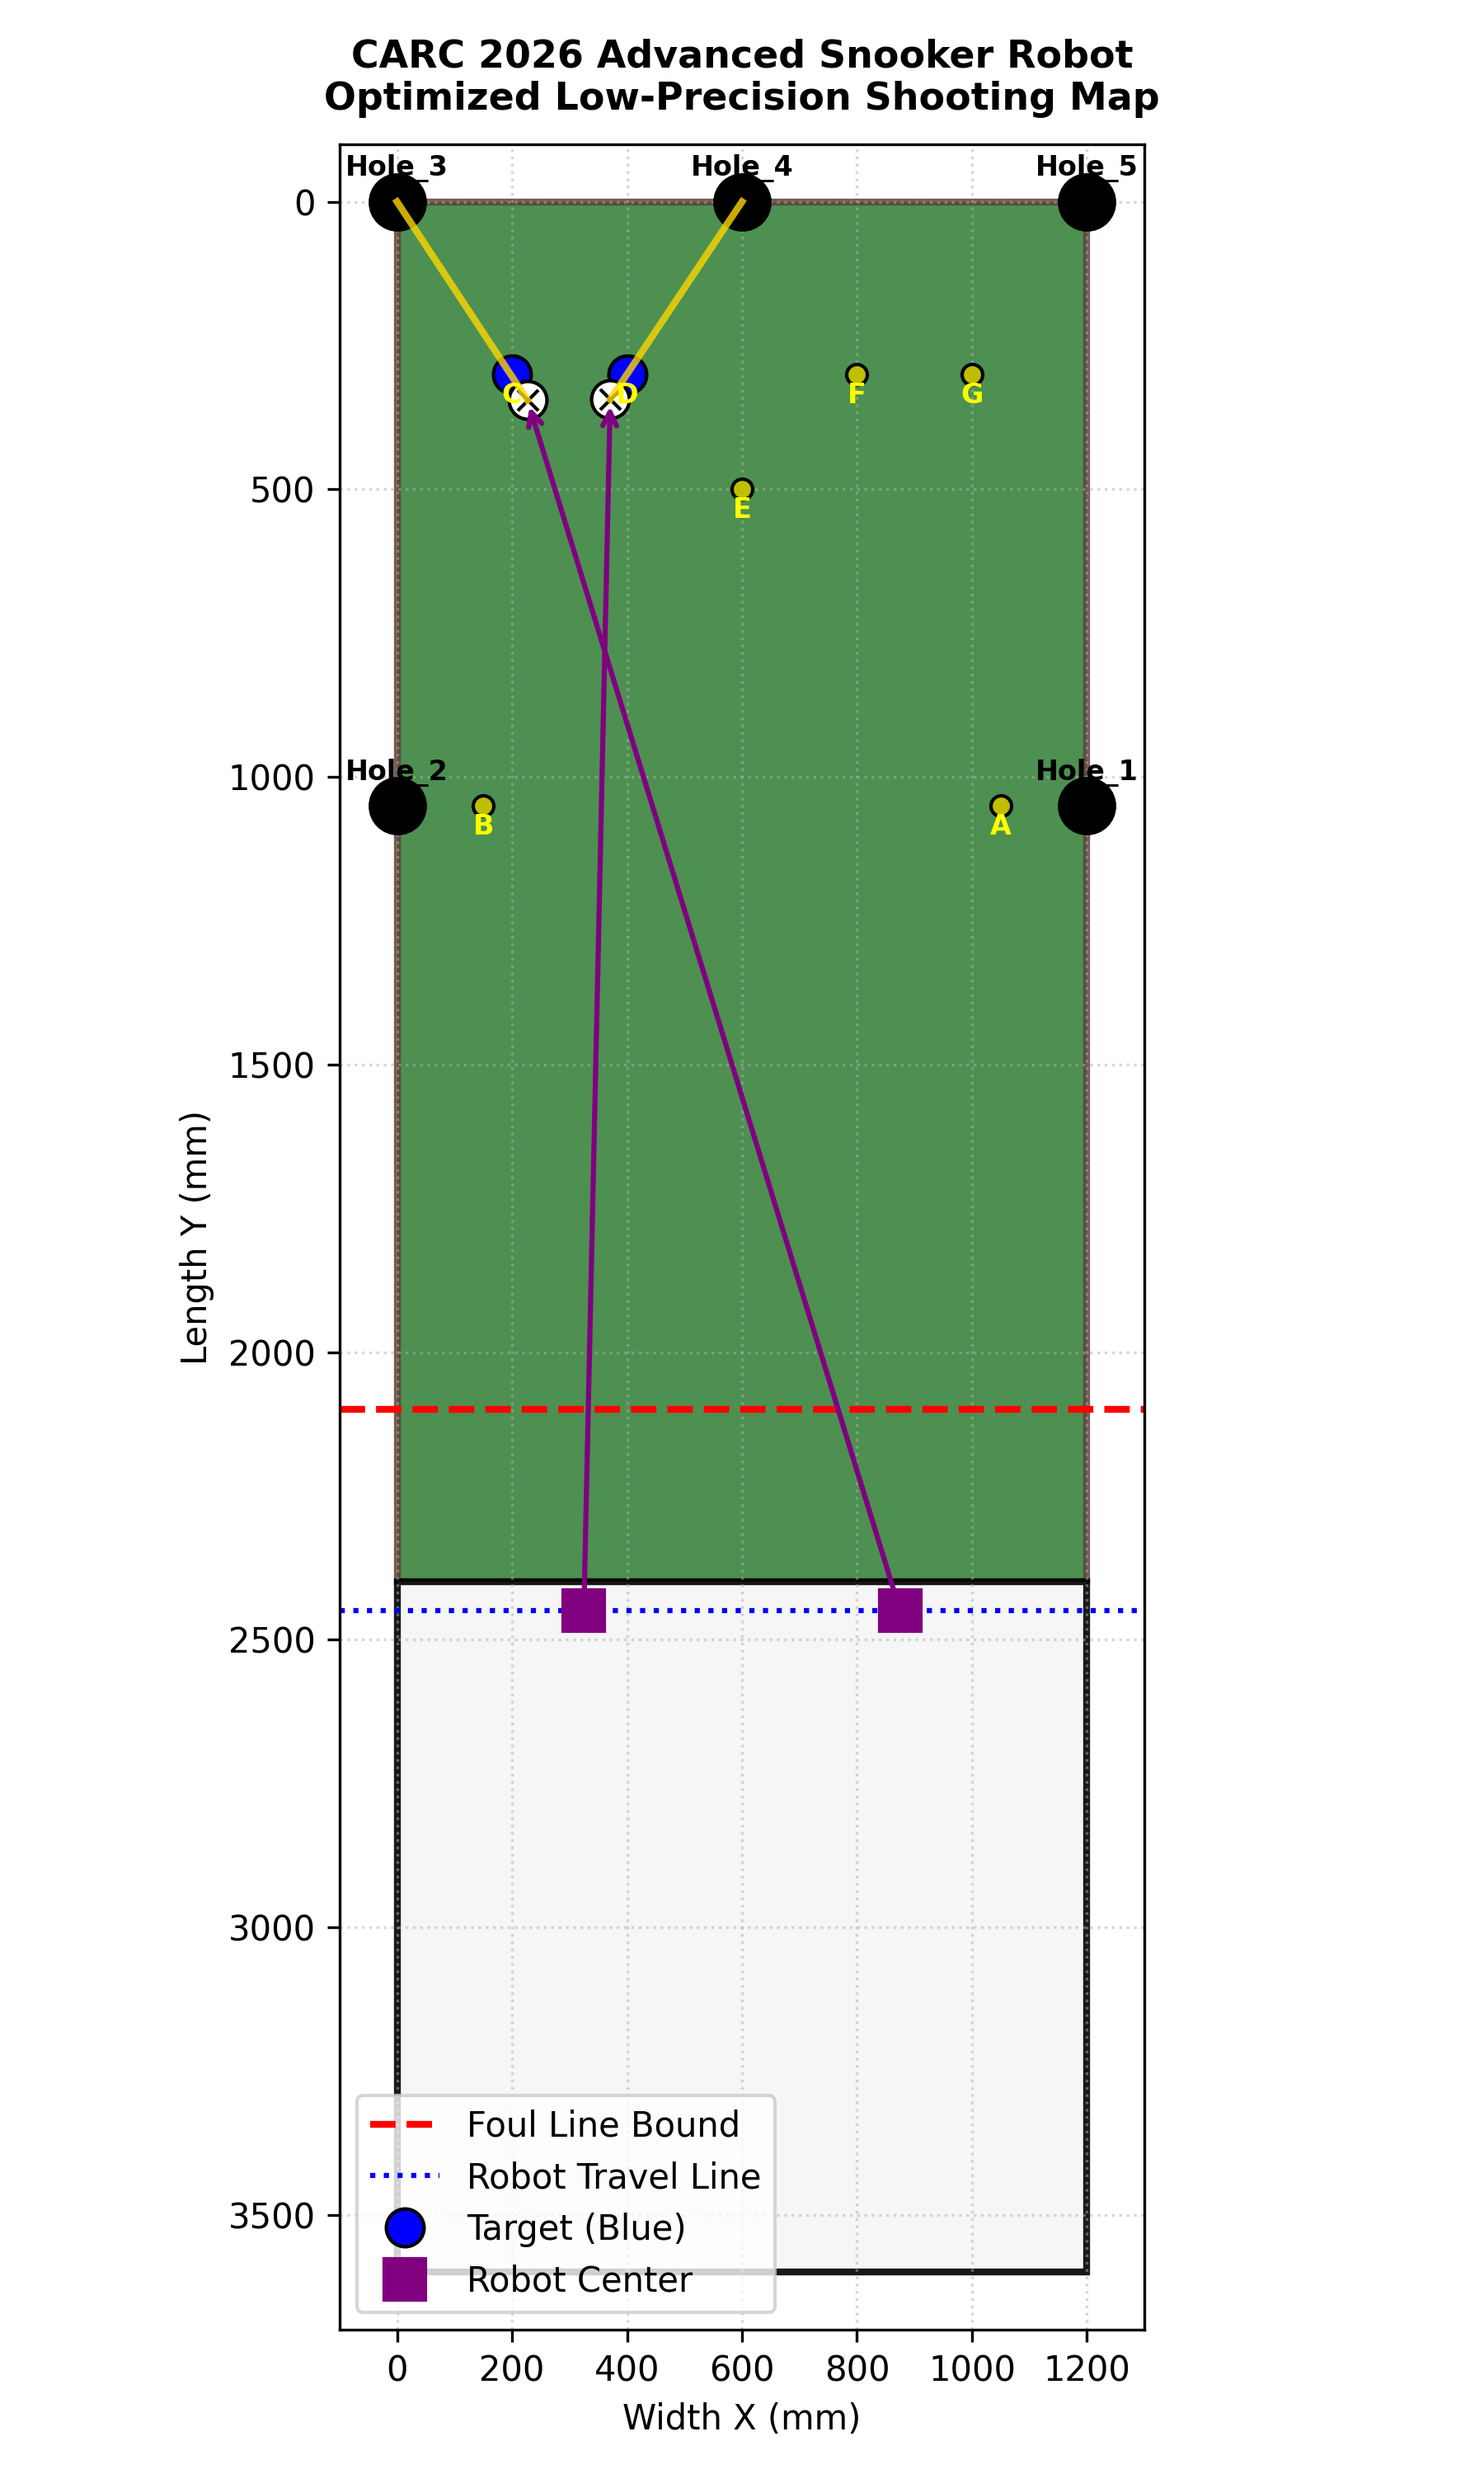
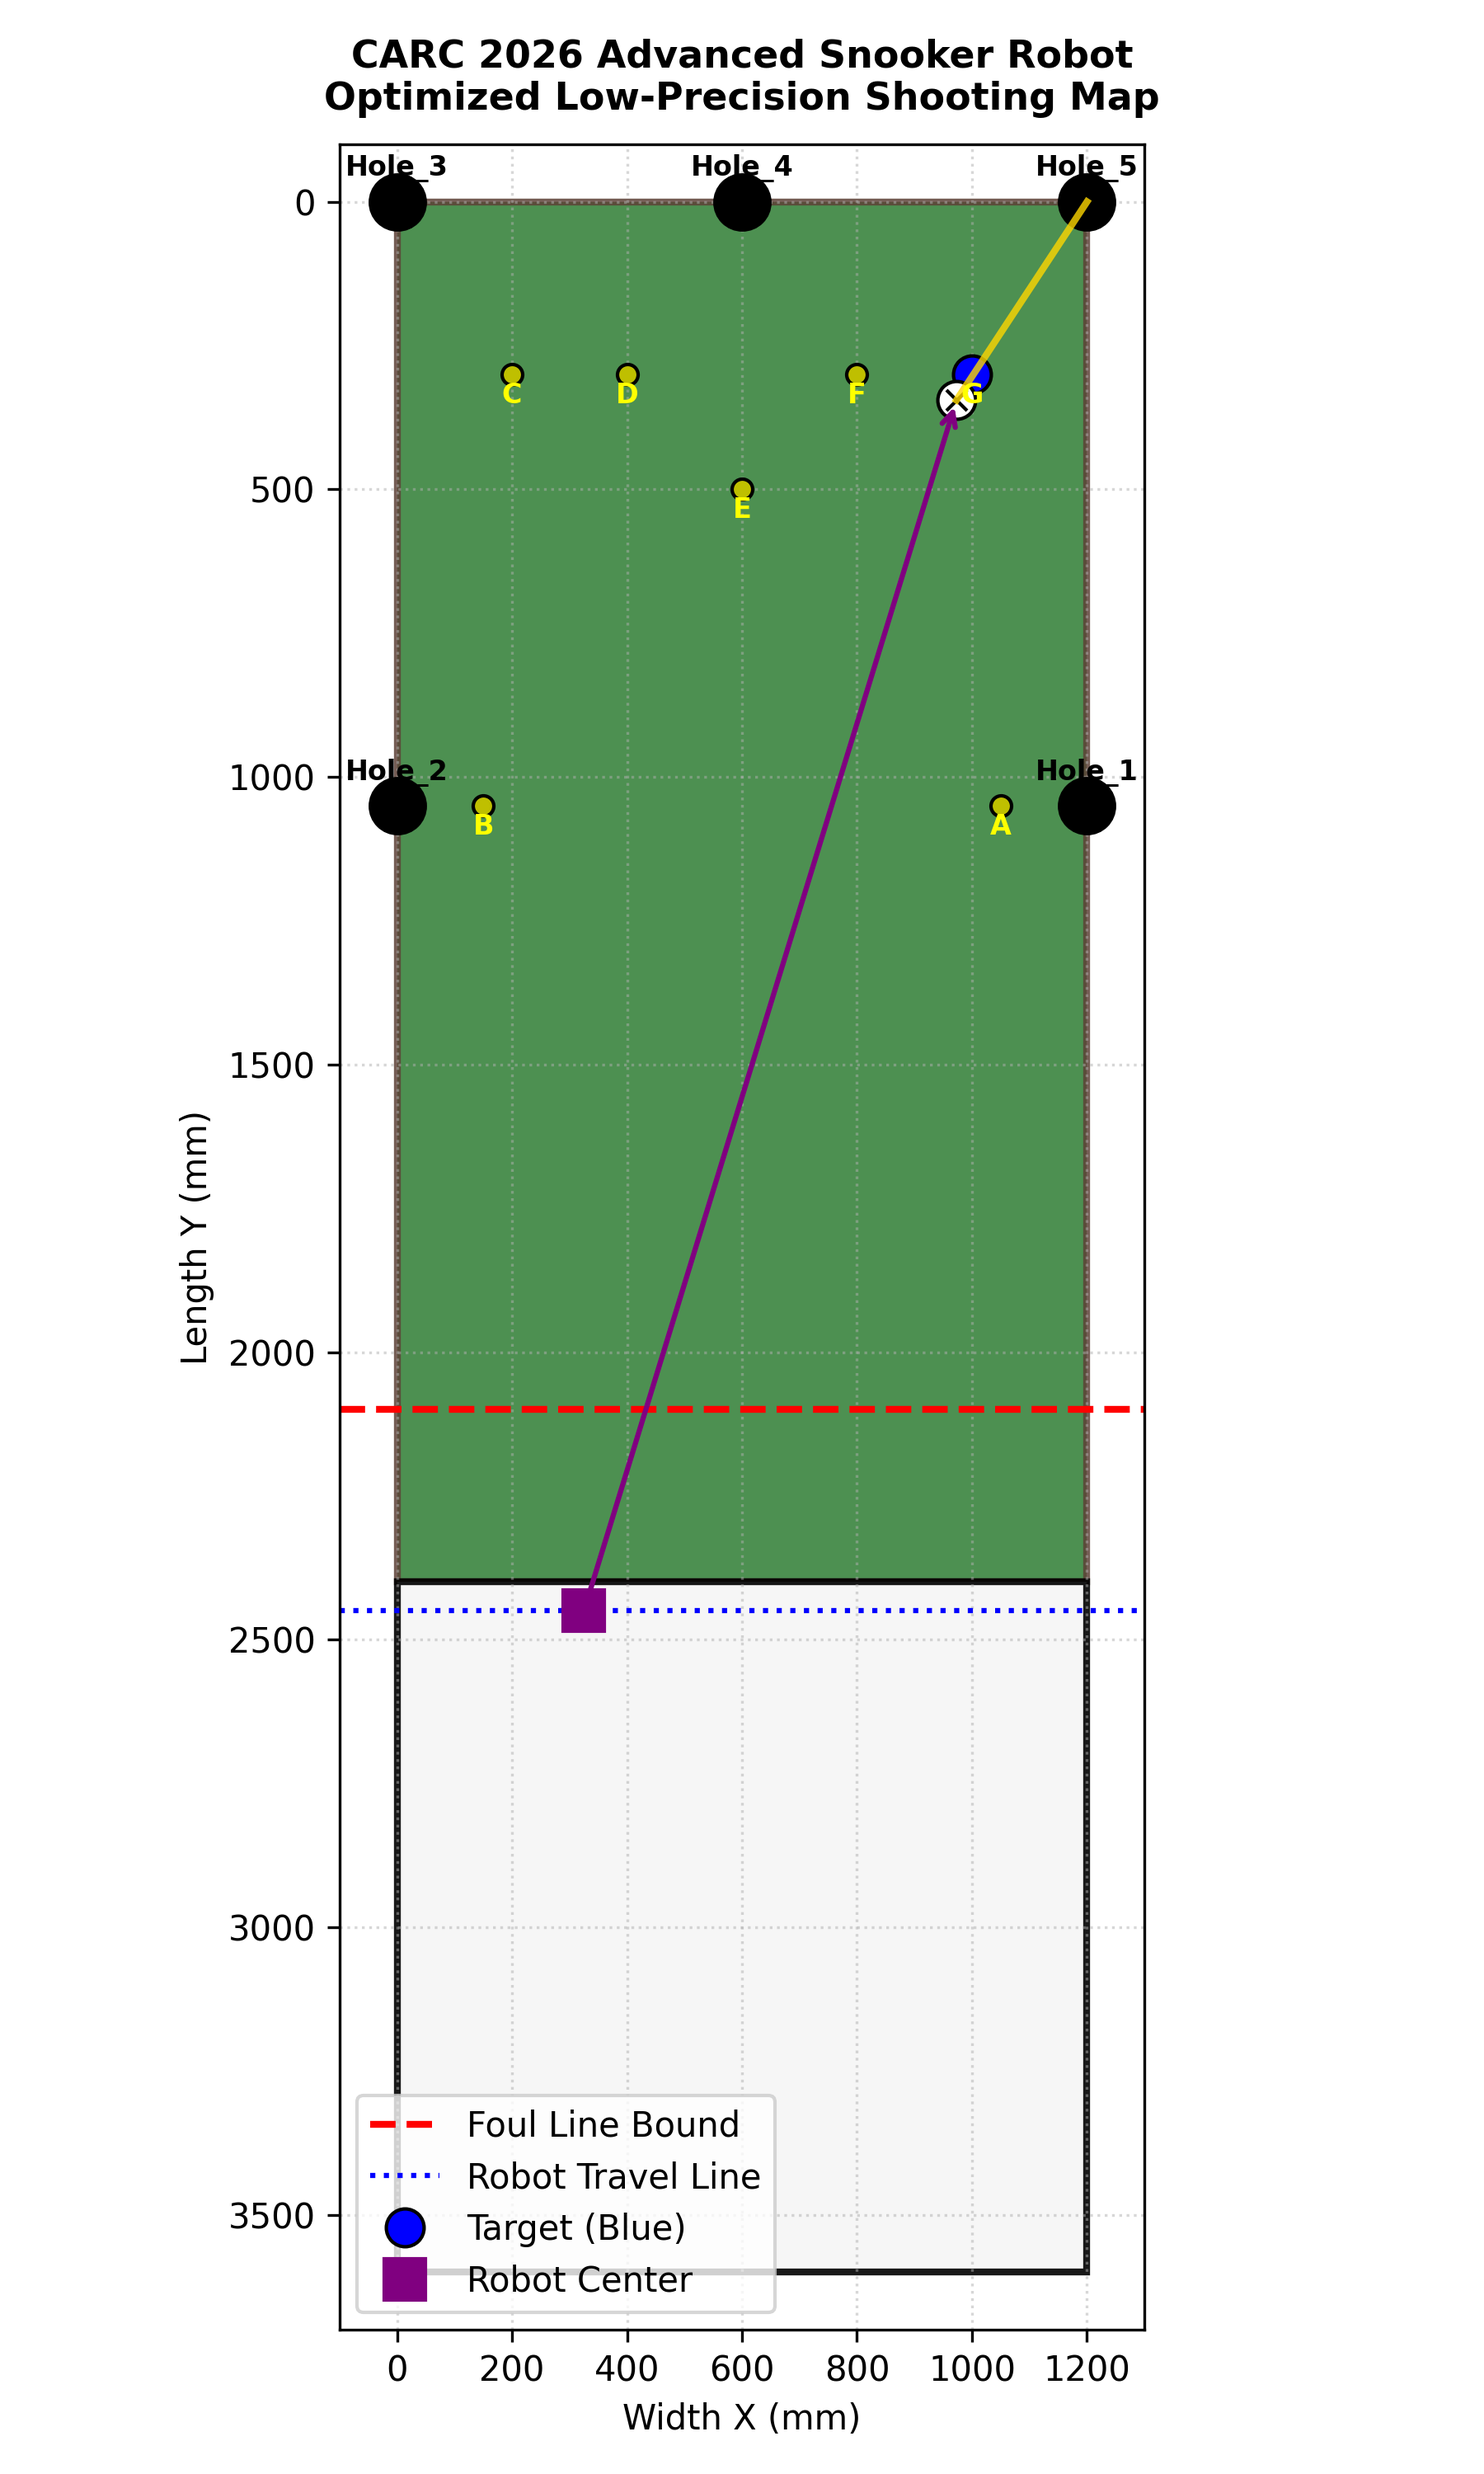
fixed ball align and stuff

diff --git a/ball_align.py b/ball_align.py
@@ -39,6 +39,8 @@ import threading
 import numpy as np
 
 sys.path.insert(0, os.path.join(os.path.dirname(__file__), ".."))
+from pathlib import Path
+
 from config import (
     CAM_BACK,
     TELEMETRY_PORT,
@@ -59,14 +61,14 @@ HAS_DISPLAY = bool(os.environ.get("DISPLAY"))
 
 # White ball HSV thresholds.
 # White = very low saturation, very high brightness.
-BALL_WHITE_S_MAX  = 70    # max saturation to count as white
-BALL_WHITE_V_MIN  = 150   # min brightness to count as white
+BALL_WHITE_S_MAX  = 80    # max saturation to count as white
+BALL_WHITE_V_MIN  = 100   # min brightness to count as white
 
 # Blue podium HSV thresholds.
 # Used to reject white blobs that are NOT above blue (e.g. white floor).
 BLUE_H_MIN, BLUE_H_MAX = 95,  135
 BLUE_S_MIN, BLUE_S_MAX = 100, 255
-BLUE_V_MIN, BLUE_V_MAX = 60,  230
+BLUE_V_MIN, BLUE_V_MAX = 40,  230
 
 # Fraction of frame height to search for balls.
 # Ignore the bottom portion to avoid seeing the white floor.
@@ -85,7 +87,7 @@ MIN_BALL_AREA_PX = 3000
 # From image 1 (backed up): ball fills ~40% of frame → ~0.4 * 640*480 ≈ 120,000px
 # From image 2 (aligned):   ball fills ~50% of frame edge → much larger
 # Start conservative:
-AREA_CLOSE_THRESHOLD = 280_000   # px² — tune upward if robot stops too far away
+AREA_CLOSE_THRESHOLD = 250000   # px² — tune upward if robot stops too far away
 
 # Lateral tolerance: ball centroid within this many pixels of frame centre = aligned.
 LATERAL_TOL_PX_ALIGN = 30    # px
@@ -436,6 +438,8 @@ class BallAlignState:
                     self._data = data
             except (socket.timeout, json.JSONDecodeError):
                 pass
+            except OSError:
+                break
 
     def get(self) -> dict:
         with self._lock:
@@ -531,7 +535,9 @@ def do_ball_align(mc, align_state: BallAlignState,
     if verbose:
         print("[ball_align] Starting alignment...")
 
+    stable = 0
     t0 = time.time()
+    loss_time = None
     while time.time() - t0 < timeout:
         st = align_state.get()
 
@@ -554,9 +560,20 @@ def do_ball_align(mc, align_state: BallAlignState,
                   f"{'✓ ALIGNED' if st.get('aligned') else ''}")
 
         if st.get("aligned"):
-            mc.brake()
-            if verbose: print("[ball_align] Aligned!")
-            return True
+            if loss_time and time.time() - loss_time < 1.0:
+                print("[ball_align] Alignment After Loss Rejected!")
+                stable = 0
+            elif time.time() - t0 < 0.75:
+                print("[ball_align] Alignment After Start Rejected!")
+                stable = 0
+            else:
+                stable += 1
+                if stable >= 5:
+                    mc.brake()
+                    if verbose: print("[ball_align] Aligned!")
+                    return True
+        else:
+            stable = 0
 
         x_cmd    = st.get("x_cmd", "STOP")
         y_cmd    = st.get("y_cmd", "STOP")
@@ -567,6 +584,7 @@ def do_ball_align(mc, align_state: BallAlignState,
 
         if not st.get("ball_found") and not ped_mode:
             # Completely lost — stop and wait
+            loss_time = time.time()
             mc.brake()
             time.sleep(0.05)
             continue

diff --git a/auto_calibration.py b/auto_calibration.py
@@ -90,7 +90,7 @@ def pose_similarity(new_pose, old_pose, image_width, image_height):
 
 def main():
     CHECKERBOARD_SIZE = (9, 6)
-    SQUARE_SIZE_METERS = 0.020
+    SQUARE_SIZE_METERS = 0.028
 
     TARGET_FRAMES = 100
     SIMILARITY_THRESHOLD = 0.90
